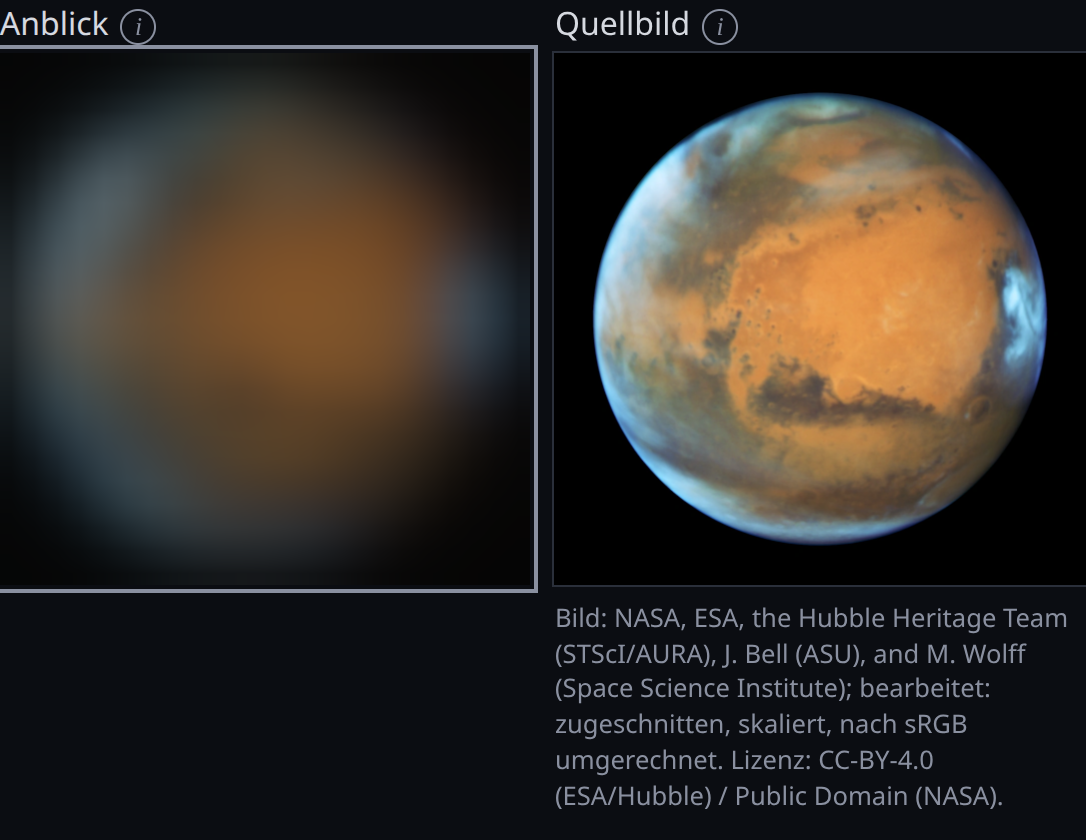
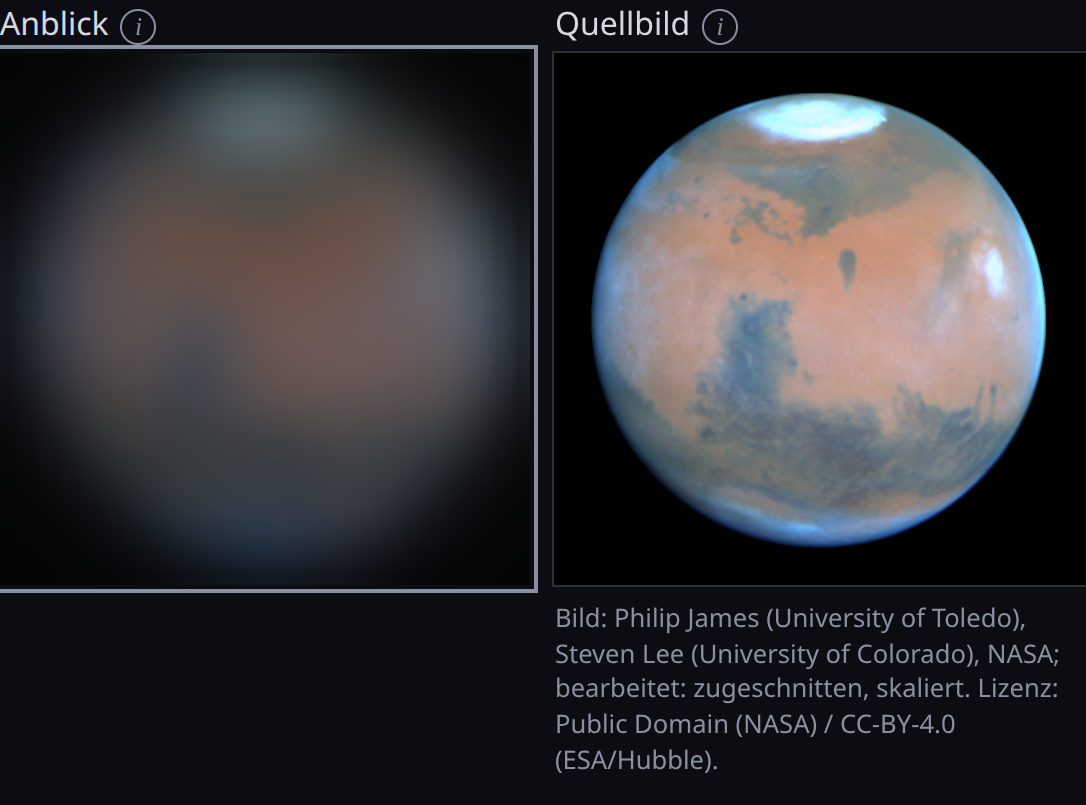
Quellbild Mars 14" und 6" mit Nordpolkappe: Hubble 1995 (Issue #78)
mars_14 und mars_6 nutzen statt Hubble 2016-05-12 (keine abgegrenzte Kappe)
Hubble WFPC2 vom 25.02.1995 (NASA mars-2, ESA opo9516d, pixelgleich):
Aphel-Opposition, Ls etwa 64, grosse Nordkappe, Syrtis Major in der Mitte.
Geometrie aus JPL Horizons, Orientierung am Bild belegt. Quellweiss neu
geeicht (3,31 und 2,75), Syrtis-Verhaeltnis 0,47 statt 0,41, Polkappe in
strukturprofile.py gemessen. Altes Bild, Nachweis und Parameterdatei
entfernt. T5 neu beurteilt: erfuellt.

diff --git a/src/daten/bildnachweise.test.ts b/src/daten/bildnachweise.test.ts
@@ -122,8 +122,8 @@ describe("pruefeBildnachweise", () => {
 });
 
 describe("pruefeBildnachweise mit Einzelbildern", () => {
-  /** Index des Einzelbilds Mars 2016 in der Kopie. */
-  const MARS_14 = (bilderJson as { id: string }[]).findIndex((e) => e.id === "mars_hst_20160512");
+  /** Index des Einzelbilds Mars 1995 in der Kopie. */
+  const MARS_14 = (bilderJson as { id: string }[]).findIndex((e) => e.id === "mars_hst_19950225");
 
   it("akzeptiert die Mars-Einzelbilder mit datei_bytes und ohne kacheln", () => {
     const nachweise = pruefeBildnachweise(bilderJson);
@@ -149,7 +149,7 @@ describe("pruefeBildnachweise mit Einzelbildern", () => {
   it("verlangt datei_bytes bei Einzelbildern und eine Datei statt eines Verzeichnisses", () => {
     const roh = kopie();
     delete roh[MARS_14]!["datei_bytes"];
-    expect([fehlerVon(roh).eintrag, fehlerVon(roh).feld]).toEqual(["mars_hst_20160512", "datei_bytes"]);
+    expect([fehlerVon(roh).eintrag, fehlerVon(roh).feld]).toEqual(["mars_hst_19950225", "datei_bytes"]);
     const roh2 = kopie();
     roh2[MARS_14]!["datei"] = "mars/";
     expect(fehlerVon(roh2).feld).toBe("datei");
@@ -163,6 +163,6 @@ describe("pruefeBildnachweise mit Einzelbildern", () => {
     const roh = kopie();
     roh[MARS_14]!["datei_bytes"] = 19_990_000;
     const f = fehlerVon(roh);
-    expect([f.eintrag, f.feld]).toEqual(["mars_hst_20160512", "datei_bytes"]);
+    expect([f.eintrag, f.feld]).toEqual(["mars_hst_19950225", "datei_bytes"]);
   });
 });

diff --git a/src/daten/quelle_einzelbild.test.ts b/src/daten/quelle_einzelbild.test.ts
@@ -26,7 +26,7 @@ const MITTE = { xArcsec: 0, yArcsec: 0 };
 
 /** Nachweis eines Einzelbilds 8x6 px mit 4 px Scheibe, aufgenommen bei 2 Bogensekunden. */
 function nachweisTest(): Bildnachweis {
-  const echt = pruefeBildnachweise(bilderJson).find((n) => n.id === "mars_hst_20160512")!;
+  const echt = pruefeBildnachweise(bilderJson).find((n) => n.id === "mars_hst_19950225")!;
   return { ...echt, pixelBreite: 8, pixelHoehe: 6, objektDurchmesserPx: 4, winkelgroesseArcsec: 2, bogensekundenProPixel: 0.5 };
 }
 
@@ -89,8 +89,8 @@ describe("QuelleEinzelbild mit Mars aus daten/", () => {
       const nachweis = nachweise.find((n) => n.id === objekte.find((o) => o.id === "mars")!.zustaende.find((z) => z.id === id)!.bild)!;
       expect(einzelbildMassstab(nachweis, zustand.durchmesserArcsec)).toBeCloseTo(zustand.quelle.massstabArcsecProPx, 12);
     }
-    // mars_6 und mars_14 teilen das Bild von 2016 mit 900 px Scheibe.
-    expect(objektzustand(objekte, nachweise, "mars_6")!.quelle.massstabArcsecProPx).toBeCloseTo(6 / 900, 12);
-    expect(objektzustand(objekte, nachweise, "mars_14")!.quelle.breitePx).toBe(960);
+    // mars_6 und mars_14 teilen das Bild von 1995 mit 620 px Scheibe.
+    expect(objektzustand(objekte, nachweise, "mars_6")!.quelle.massstabArcsecProPx).toBeCloseTo(6 / 620, 12);
+    expect(objektzustand(objekte, nachweise, "mars_14")!.quelle.breitePx).toBe(664);
   });
 });

diff --git a/src/physik/testdaten.ts b/src/physik/testdaten.ts
@@ -86,14 +86,14 @@ export const SATURN_20: Objektzustand = {
 
 /**
  * Mars 14'' und 6'' ohne Trabanten, Objektwerte aus daten/objekte.json (mars_14, mars_6). Quelle
- * wie in der Anwendung: Bild mars_hst_20160512 (960 px, Scheibe 900 px) auf die Winkelgroesse
- * des Zustands skaliert, also 14/900 bzw. 6/900 ''/px.
+ * wie in der Anwendung: Bild mars_hst_19950225 (664 px, Scheibe 620 px) auf die Winkelgroesse
+ * des Zustands skaliert, also 14/620 bzw. 6/620 ''/px.
  */
 export const MARS_14: Objektzustand = {
   kennung: "mars_14",
   durchmesserArcsec: 14,
   magnitude: -1.4,
-  quelle: { breitePx: 960, hoehePx: 960, massstabArcsecProPx: 14 / 900, weissMagProArcsec2: 2.54 },
+  quelle: { breitePx: 664, hoehePx: 664, massstabArcsecProPx: 14 / 620, weissMagProArcsec2: 2.75 },
   trabanten: []
 };
 
@@ -101,6 +101,6 @@ export const MARS_6: Objektzustand = {
   kennung: "mars_6",
   durchmesserArcsec: 6,
   magnitude: 1.0,
-  quelle: { breitePx: 960, hoehePx: 960, massstabArcsecProPx: 6 / 900, weissMagProArcsec2: 3.1 },
+  quelle: { breitePx: 664, hoehePx: 664, massstabArcsecProPx: 6 / 620, weissMagProArcsec2: 3.31 },
   trabanten: []
 };

diff --git a/src/physik/validierung.test.ts b/src/physik/validierung.test.ts
@@ -40,10 +40,10 @@ const SATURN_ANSE: Profilstufe[] = [
   stufe(21.0, 22.69, 0.54)
 ];
 
-/** Mars-Scheibe mit Radius r und Syrtis Major der Breite b in der Mitte, dunkel/hell 0,41 (Quellbild), Himmel 0. */
+/** Mars-Scheibe mit Radius r und Syrtis Major der Breite b in der Mitte, dunkel/hell 0,47 (Quellbild seit #78), Himmel 0. */
 const mars = (radiusArcsec: number, syrtisArcsec: number): Profilstufe[] => [
   stufe(-radiusArcsec, -syrtisArcsec / 2, 1),
-  stufe(-syrtisArcsec / 2, syrtisArcsec / 2, 0.41),
+  stufe(-syrtisArcsec / 2, syrtisArcsec / 2, 0.47),
   stufe(syrtisArcsec / 2, radiusArcsec, 1)
 ];
 

diff --git a/src/daten/objekte.test.ts b/src/daten/objekte.test.ts
@@ -48,8 +48,8 @@ describe("pruefeObjekte", () => {
     const mars = pruefeObjekte(objekteJson).find((o) => o.id === "mars");
     expect(mars?.typ).toBe("planet");
     expect(mars?.zustaende.map((z) => [z.id, z.winkelgroesseArcsec, z.weissMagProArcsec2])).toEqual([
-      ["mars_6", 6, 3.1],
-      ["mars_14", 14, 2.54],
+      ["mars_6", 6, 3.31],
+      ["mars_14", 14, 2.75],
       ["mars_25", 25, 1.68]
     ]);
     expect(mars?.zustaende[0]?.hinweisHilfe).toContain("gibbos");

diff --git a/tools/strukturprofile.py b/tools/strukturprofile.py
@@ -22,7 +22,11 @@ Y = 0,2126 R + 0,7152 G + 0,0722 B, wie tools/quellweiss_eichen.py), und gibt au
       ohne Flanken.
     - Mars (mars_14): Perzentile 10 und 70 der Leuchtdichte im inneren
       Scheibenbereich (Radius unter 0,7) als dunkle und helle Gebiete, und ihr
-      Verhaeltnis.
+      Verhaeltnis. Dazu die Nordpolkappe (Issue #78): in der hellsten Zeile
+      der Nordkappe (oberhalb 0,6 Radien) die Breite an der Halbwertskante
+      zwischen Kappenkern (Perzentil 95 der Zeile) und hellen Gebieten
+      (Perzentil 70 innen), in Bogensekunden und Scheibendurchmessern, und
+      der Kern relativ zu den hellen Gebieten.
     - Jupiter (jup_47, Issue #79): Streifen am Zentralmeridian (96 px breit),
       Kern des NEB gegen die NTrZ, Fenster in Bogensekunden vom Aequator im
       Bild (Massstab des Nachweises), gewaehlt nach dem Profil des Bilds von
@@ -165,6 +169,17 @@ def mars() -> None:
     innen = y[np.hypot(xx - breite / 2, yy - hoehe / 2) < 0.7 * radius_px]
     p10, p70 = np.percentile(innen, 10), np.percentile(innen, 70)
     print(f"Mars {n['datei']}: Perzentil 10 {p10:.3f}, 70 {p70:.3f}, Verhaeltnis dunkel/hell {p10 / p70:.3f}")
+    # Nordpolkappe: hellste Zeile oberhalb 0,6 Radien, nur innerhalb der Scheibe
+    in_scheibe = np.hypot(xx - breite / 2, yy - hoehe / 2) < 0.98 * radius_px
+    oben = np.where(in_scheibe & (yy < hoehe / 2 - 0.6 * radius_px), y, 0.0)
+    zeile = int(np.argmax(oben.mean(axis=1)))
+    profil = oben[zeile - 2 : zeile + 3].mean(axis=0)
+    kern_y = np.percentile(profil[profil > 0], 95)
+    ueber = np.where(profil > (kern_y + p70) / 2)[0]
+    breite_px = ueber.max() - ueber.min() + 1
+    massstab = n["bogensekunden_pro_pixel"]
+    print(f"  Nordpolkappe (Zeile {zeile}, {(hoehe / 2 - zeile) / radius_px:.2f} R ueber der Mitte): Breite {breite_px} px = "
+          f"{breite_px * massstab:.2f}\" = {breite_px / n['objekt_durchmesser_px']:.3f} D, Kern {kern_y:.3f}, relativ zu hell {kern_y / p70:.2f}")
 
 
 

diff --git a/docs/validierung.md b/docs/validierung.md
@@ -26,8 +26,8 @@ URL-Basis aller Faelle: `https://herr-cbert.github.io/astobsim/`, dahinter der S
 | T4b | `?v=1&R(100,1000,5)&z=jup_47&s=3&B` | 3,23'' | 0,061 | [Uebersicht](validierung/T4b-uebersicht.png), [Zoom](validierung/T4b-zoom.png) |
 | T4c | `?v=1&R(300,3000,15)&z=jup_47&s=1&B` | 1,11'' | 0,139 | [Uebersicht](validierung/T4c-uebersicht.png), [Zoom](validierung/T4c-zoom.png) |
 | T4d | `?v=1&R(100,1000,5)&z=jup_47&s=1&B` | 1,57'' | 0,112 | [Uebersicht](validierung/T4d-uebersicht.png), [Zoom](validierung/T4d-zoom.png) |
-| T5a | `?v=1&R(150,1200,6)&z=mars_14&s=1.5&B` | 1,72'' | Syrtis 0,429 | [Uebersicht](validierung/T5a-uebersicht.png), [Zoom](validierung/T5a-zoom.png) |
-| T5b | `?v=1&R(80,960,8)&z=mars_6&s=1.5&B` | 2,15'' | Syrtis 0,060 | [Uebersicht](validierung/T5b-uebersicht.png), [Zoom](validierung/T5b-zoom.png) |
+| T5a | `?v=1&R(150,1200,6)&z=mars_14&s=1.5&B` | 1,72'' | Syrtis 0,384 | [Uebersicht](validierung/T5a-uebersicht.png), [Zoom](validierung/T5a-zoom.png) |
+| T5b | `?v=1&R(80,960,8)&z=mars_6&s=1.5&B` | 2,15'' | Syrtis 0,046 | [Uebersicht](validierung/T5b-uebersicht.png), [Zoom](validierung/T5b-zoom.png) |
 | T6a | `?v=1&g=auge&z=mond_ev&s=2&B` | 63,1'' | Mare 0,398 | [Uebersicht](validierung/T6a-uebersicht.png), [Zoom](validierung/T6a-zoom.png) |
 | T6b | `?v=1&g=auge&z=jup_47&s=2&B` | 63,1'' | - | [Uebersicht](validierung/T6b-uebersicht.png), [Zoom](validierung/T6b-zoom.png) |
 | T6c | `?v=1&g=fernglas-10x50&z=jup_47&s=2&B` | 6,74'' | Baender 0,080 | [Uebersicht](validierung/T6c-uebersicht.png), [Zoom](validierung/T6c-zoom.png) |
@@ -80,6 +80,10 @@ Bild: bei 14'' sind die dunklen Gebiete als schwache Strukturen zu sehen, bei 6'
 
 **Urteil: teilweise** (dunkle Strukturen und Scheibchen erfuellt, Polkappe nicht pruefbar). Abweichung 3 (#78).
 
+Nachtrag #78 (2026-10-28): neues Quellbild Hubble 25.02.1995 (mars_hst_19950225, Aphel-Opposition, Ls etwa 64, grosse Nordkappe 0,28 Scheibendurchmesser, Syrtis Major in der Mitte), Screenshots neu. Bei 14'' ist die Nordkappe als helle Flaeche am Nordrand deutlich (Leuchtdichte im Nord-Sued-Schnitt 0,122 in der Kappe gegen 0,074 suedlich davon, eigenes Maximum), Syrtis Major als dunkler Keil links der Mitte schwach (Delle 0,384). Bei 6'' im 80 mm ein Scheibchen ohne eigenes Maximum der Kappe, aber mit hellerem Nordrand (sRGB 33 gegen 24 und 46 gegen 34 im gleichen Abstand von der Mitte nach Norden und Sueden), also angedeutet; Syrtis nicht (0,046).
+
+**Urteil nach #78: erfuellt** (Polkappe und Syrtis bei 14'' erkennbar, bei 6'' Scheibchen mit angedeuteter Kappe).
+
 ### T6: Mond und Jupiter mit blossem Auge, Jupiter im 10x50
 
 Erwartung: Mond mit Mare als Flecken, keine Krater; Jupiter mit blossem Auge ein Punkt; im 10x50 ein winziges Scheibchen mit zwei bis vier Monden in einer Linie, keine Baender.
@@ -93,14 +97,14 @@ Bild: Mond mit klaren Mare-Flecken, keine Krater (T6a). Jupiter mit blossem Auge
 | Delle | Fall und Struktur | im Bild |
 |---|---|---|
 | 0,549 | T3 Kraterschatten 4 km | erkennbar (aus der Delle, im Bild nicht pruefbar) |
-| 0,429 | T5a Syrtis Major 14'' | erkennbar |
+| 0,384 | T5a Syrtis Major 14'' (seit #78, vorher 0,429) | erkennbar |
 | 0,398 | T6a Mare, blosses Auge | erkennbar |
 | 0,142 | T1 Baender 70 mm | erkennbar |
 | 0,139 | T4c Detail 1,5'', 300 mm, 1'' | erkennbar |
 | 0,112 | T4d Detail 1,5'', 100 mm, 1'' | nicht (Herbert, 2026-10-27: "kaum" zaehlt als nicht) |
 | 0,080 | T6c Baender 10x50 | nicht |
 | 0,066 / 0,061 | T4a / T4b Detail 1,5'' bei 3'' | nicht |
-| 0,060 | T5b Syrtis Major 6'' | nicht |
+| 0,046 | T5b Syrtis Major 6'' (seit #78, vorher 0,060) | nicht |
 | 0,058 | T3 Hadley-Rille | nicht |
 | 0,000 | T2a / T2b Cassini-Teilung | nicht |
 
@@ -114,7 +118,7 @@ Als Issues angelegt am 2026-10-27, Milestone M3 (Herbert, 2026-10-27):
 
 1. **#76, T2: Cassini-Teilung bei 100 mm und Seeing 1,5'' nicht sichtbar.** Das Modell faltet mit dem Langzeit-Seeing (Moffat mit voller FWHM); Beobachter sehen die Teilung in Momenten ruhiger Luft. Zu klaeren, ob die Erwartung fuer Langzeit-Seeing zu optimistisch ist oder ob das Seeing-Modell fuer visuelle Beobachtung zu streng ist. Bezug: #29 (Kann: Umschalter ruhiger Moment), physik.md 2. **Erledigt 2026-10-27:** Erwartung zu optimistisch, Modell bleibt, A-Q2 T2 angepasst. Ein Tilt-Abzug haette T4d und T5b ueber die Schwelle gehoben (physik.md 15).
 2. **#77, T3: Mond-Zoom zu grob fuer die Aufloesungsgrenze.** Der Zoom zeigt beim Mond das halbe Gesichtsfeld (`ZOOM_ANTEIL_GESICHTSFELD_MAX`); bei 80 mm und 100-fach sind das etwa 1,7'' je Anzeigepixel, die Optik loest etwa 1'' je Arbeitspixel auf. Die Grenze von A-Q2 (Krater ab 4 km) ist so nicht zu sehen. Vorschlag: zweite Zoomstufe oder Zoom bis zum Arbeitsmassstab.
-3. **#78, T5: Mars-Quellbild ohne Polkappe.** Hubble 2016-05-12 (mars_14 und mars_6) zeigt keine abgegrenzte Kappe; "Polkappe erkennbar" ist damit nicht pruefbar. Vorschlag: anderes Bild fuer die Aphel-Opposition (Nordfruehling, grosse Nordkappe, objekte.md 4.4).
+3. **#78, T5: Mars-Quellbild ohne Polkappe.** Hubble 2016-05-12 (mars_14 und mars_6) zeigt keine abgegrenzte Kappe; "Polkappe erkennbar" ist damit nicht pruefbar. Vorschlag: anderes Bild fuer die Aphel-Opposition (Nordfruehling, grosse Nordkappe, objekte.md 4.4). **Erledigt 2026-10-28:** Hubble WFPC2 vom 25.02.1995 (Ls etwa 64, 13,43'', Syrtis Major in der Mitte) fuer mars_14 und mars_6, Quellweiss neu geeicht (objekte.md 5.3), Syrtis-Verhaeltnis 0,47 statt 0,41 (objekte.md 4.6); T5 erfuellt.
 4. **#79, T1: Quellbild Jupiter kontrastreicher als visuell.** Baender etwa 0,7 statt 0,82 der Zonenhelligkeit (Orton [56]), GRF kraeftig orange; der GRF erscheint im 70 mm deutlich statt angedeutet. Vorschlag: Kontrast und Farbsaettigung des Quellbilds in `tools/` an die Photometrie angleichen, oder die Erwartung begruenden. Aus #76 dazu: Saturn-A-Ring im Quellbild 0,50 (innen) und 0,21 (aussen) des aeusseren B-Rings, vermutlich ebenfalls zu dunkel; selbst im ruhigen Moment zeigt er die Cassini-Teilung kaum (physik.md 15.4). **Erledigt 2026-10-28:** Jupiter mit Exponent 0,427 an Orton angeglichen (NEB/NTrZ 0,82), Saturn mit einer Tonkurve an Salo und French 2010 (eine Potenzkurve passt dort nicht); Quellweiss neu geeicht, T1 erfuellt, T2 weiter erfuellt.
 
 ## 5. Pruefpunkte aus Welle 4a
@@ -134,6 +138,7 @@ Als Issues angelegt am 2026-10-27, Milestone M3 (Herbert, 2026-10-27):
 | Herbert | 2026-10-27 | Urteile wie oben |
 | Herbert | 2026-10-27 | #76: T2-Erwartung an das Langzeitmittel angepasst, T2 erfuellt |
 | Claude | 2026-10-28 | #79: Quellbilder Jupiter und Saturn angeglichen, T1 erfuellt, T2 weiter erfuellt, T4 und T6 unveraendert im Urteil |
+| Claude | 2026-10-28 | #78: Quellbild Mars 1995 mit Nordkappe, T5 erfuellt |
 
 ## 7. Sicherheit (Issue #22)
 

diff --git a/data/roh/LIESMICH.md b/data/roh/LIESMICH.md
@@ -12,9 +12,12 @@ Nur diese Datei liegt im Repo (`.gitignore`: `data/roh/*`, `!data/roh/LIESMICH.m
[2 lines of base64/hex data omitted]
   Scheibe gemessen (Halbwertskante): Mitte Pixel 398,8/400,0, Aequatordurchmesser 696,3 px (25,12", 0,0361"/px). Verarbeitet durch `tools/bild_aufbereiten.py` mit `tools/parameter/mars_hst_20030826.json`.
[3 lines of base64/hex data omitted]
   Scheibe gemessen (Halbwertskante): Mitte Pixel 998,0/979,25, Aequatordurchmesser 1374,4 px (17,51", 0,0127"/px). Verarbeitet durch `tools/bild_aufbereiten.py` mit `tools/parameter/mars_hst_20160512.json`.
[2 lines of base64/hex data omitted]
+  Scheibe gemessen (Halbwertskante): Mitte Pixel 403,28/395,57, Aequatordurchmesser 618,5 px (13,43", 0,0217"/px). Verarbeitet durch `tools/bild_aufbereiten.py` mit `tools/parameter/mars_hst_19950225.json`.
[2 lines of base64/hex data omitted]
   Die Pressefassung ist gedreht (Baender 41,7 Grad gegen den Uhrzeigersinn ueber der Waagerechten, bestimmt ueber Profil-Korrelation der Baender); `tools/bild_aufbereiten.py` dreht um 41,7 Grad im Uhrzeigersinn. Im gedrehten Bild gemessen (Halbwertskante): Mitte Pixel 2121,8/2175,7, Aequatordurchmesser 2210,4 px (45,65", 0,0207"/px). Parameter: `tools/parameter/jupiter_hst_20190627.json`.

diff --git a/docs/recherche/bilder.md b/docs/recherche/bilder.md
@@ -66,7 +66,9 @@ Ein Orbiter in polarer Bahn fotografiert jeden Streifen bei etwa gleicher Ortsze
 
 ## 3. Mars 6", 14", 25"
 
-Ephemeride fuer die Aufnahmedaten (JPL Horizons, geozentrisch) [Q22]: 2003-08-26: 25,12", subterrestrische Breite -19,0 Grad (Suedpolkappe zugewandt). 2016-05-12: 17,51", +8,6 Grad.
+Ephemeride fuer die Aufnahmedaten (JPL Horizons, geozentrisch) [Q22]: 2003-08-26: 25,12", subterrestrische Breite -19,0 Grad (Suedpolkappe zugewandt). 2016-05-12: 17,51", +8,6 Grad. 1995-02-25 (Nachtrag #78): 13,46" bis 13,40" ueber den Tag, +17,6 Grad, Positionswinkel der Nordpolachse 2,6 Grad, Phasenwinkel 11,3 Grad.
+
+Nachtrag 2026-10-28 (Issue #78): mars_14 und mars_6 nutzen seit #78 Hubble WFPC2 vom 25.02.1995 ("Mars at Opposition 1995 (Syrtis Major Region)", NASA https://science.nasa.gov/asset/hubble/mars-2/, ESA opo9516d, pixelgleich, 800 x 800 px, Scheibe 618 px, etwa 295 px native). Grund: heic1609a (2016, Ls etwa 151) zeigt keine abgegrenzte Nordkappe, T5 verlangt eine; 1995 liegt bei Ls etwa 64 (Aphel-Opposition, Nordfruehling) mit grosser Nordkappe und Syrtis Major in der Mitte. Credit "Philip James (University of Toledo), Steven Lee (University of Colorado), NASA" (ESA: "... NASA / ESA"). Verworfen bei der Suche: 1999 PIA01592 (Sommer-Restkappe, schaerfer), 1997 opo9715c und opo9709b (Montagen mit Text, JPEG), 2024 heic2505b (Kappe unter Polhaube, UV-Anteil), 2007 und 2001 (Polhaube bzw. Staubsturm).
 
 | Kandidat | Datum, Instrument | Groesse, Aufloesung | Sichtbar | Lizenz, Credit | Bewertung |
 |---|---|---|---|---|---|
@@ -312,7 +314,7 @@ Was ein eigenes Rendering fuer den Mond braeuchte (nur falls A-X9 fuer den Mond 
 |---|---|---|---|---|---|
 | Mond, kurz nach erstem Viertel | **Keine Empfehlung ohne Entscheidung von Herbert.** Option A: Commons-Mosaik 2026 (echtes Foto, CC BY-SA 4.0). Option B: NASA SVS 5587, Einzelframe fuer den Zeitpunkt etwa 1 Tag nach dem ersten Viertel (Rendering, gemeinfrei). Option C: CC0-Bild Niittee 2024 als Zwischenloesung. | A: https://commons.wikimedia.org/wiki/File:20260423_-_First_Quarter_Moon_Mosaic.png ; B: https://svs.gsfc.nasa.gov/5587 ; C: https://commons.wikimedia.org/wiki/File:Moon_in_T%C3%B5rva.png | A: CC BY-SA 4.0; B: Public Domain; C: CC0 | A: 13 454 px nominal, echte Aufloesung unbekannt; B: etwa 3000 px (unter 4000); C: etwa 3000 px Scheibe | A: hoch (Urheber kontaktieren, Qualitaet pruefen, drehen, Kacheln); B: mittel (Frame waehlen, Kacheln), aber A-X9-Konflikt; C: gering |
 | Mars 25" | Hubble WFPC2, 26.08.2003 | https://science.nasa.gov/asset/hubble/hubbles-close-encounter-with-mars-august-26-2003 (ESA-Kopie: https://esahubble.org/images/opo0322a/) | Public Domain (NASA) bzw. CC BY 4.0 (ESA/Hubble), zu klaeren | 800 x 800 px Datei, etwa 550 px native, 27 km | gering: Hintergrund schwaerzen, Norden pruefen |
-| Mars 14" | Hubble WFC3 heic1609a, 12.05.2016 (17,5") | https://esahubble.org/images/heic1609a/ | wie oben | 2000 x 2000 px Datei, etwa 440 px native, 30 km | gering; fuer T5 alternativ PIA01592 (Syrtis Major zentral) oder das 2003-Bild verkleinert |
+| Mars 14" | Hubble WFC3 heic1609a, 12.05.2016 (17,5"); seit #78 Hubble WFPC2 25.02.1995 (Abschnitt 3, Nachtrag) | https://esahubble.org/images/heic1609a/ ; seit #78 https://science.nasa.gov/asset/hubble/mars-2/ | wie oben | 2000 x 2000 px Datei, etwa 440 px native, 30 km; 1995: 800 x 800 px, etwa 295 px native | gering; fuer T5 alternativ PIA01592 (Syrtis Major zentral) oder das 2003-Bild verkleinert |
 | Mars 6" | dasselbe Bild wie 14", in der Anwendung auf 24 px skaliert | wie oben | wie oben | weit ueber Messlatte | keiner |
 | Jupiter 47" | Hubble WFC3 heic1914a, 27.06.2019 (45,7") | https://esahubble.org/images/heic1914a/ | wie oben | 3050 x 3050 px, etwa 1140 px native, 240 km | gering; Alternative ohne CC-Frage: Cassini PIA04866 (gemeinfrei, 60 km) |
 | Jupiter 35" | dasselbe Bild, skaliert | wie oben | wie oben | - | keiner |

diff --git a/docs/recherche/objekte.md b/docs/recherche/objekte.md
@@ -269,10 +269,10 @@ Die Tabellen-Tests (`src/physik/validierung.test.ts`) falten je Testfall ein Stu
 | T3 | Kraterschatten 4 km = 2,15'' | Schatten 0 in 1 | 4.3 (Schattenkontrast nahe 1) |
 | T3 | Hadley-Rille 0,64'' | 0,7 in 1 | Annahme (4.3: "Kontrast viel geringer", nur ein Schattenrand); das Quellbild loest die Rille mit 0,64''/px nicht auf |
 | T4 | Detail 1,5'' auf Jupiter (Festons, Ovale) | 0,82 in 1 | Annahme: Groesse aus dem Quellbild geschaetzt, Kontrast wie die Baender |
-| T5 | Mars-Scheibe 14'' bzw. 6'' mit Syrtis Major 2,1'' bzw. 0,9'' in der Mitte | Scheibe 1, Syrtis 0,41, Himmel 0 | Quellbild mars_14 (Perzentil 10 gegen 70 im inneren Scheibenbereich: 0,141/0,341); Literatur 4.4: etwa 0,45 |
+| T5 | Mars-Scheibe 14'' bzw. 6'' mit Syrtis Major 2,1'' bzw. 0,9'' in der Mitte | Scheibe 1, Syrtis 0,47, Himmel 0 | Quellbild mars_14 seit #78 (Hubble 1995; Perzentil 10 gegen 70 im inneren Scheibenbereich: 0,172/0,366; bis #78 Hubble 2016: 0,141/0,341 = 0,41); Literatur 4.4: etwa 0,45 |
 | T6a | Mare 5' = 300'' | 0,6 in 1 | Annahme aus den Albedos in 2.3 (Mare 0,07 bis 0,10 gegen Hochland 0,11 bis 0,18) |
 
-Die Polkappe (T5) hat kein Profil: das Quellbild (Hubble 2016-05-12) zeigt keine abgegrenzte Kappe, siehe `docs/validierung.md`.
+Die Polkappe (T5) hat kein Profil im Tabellen-Test: profilDelle misst Dellen, die Kappe ist eine helle Struktur am Rand, und die Schwelle ist nur an Dellen geeicht; sie wird am Bild beurteilt (`docs/validierung.md` T5). Gemessen mit `tools/strukturprofile.py` seit #78 (Hubble 1995): Breite an der Halbwertskante 0,284 Scheibendurchmesser (3,8'' bei 13,43'', also 4,0'' bei 14''), knapp unter der Schaetzung 4,3'' bis 6,2'' aus 4.4; Kern 2,5-fach so hell wie die hellen Gebiete. Bis #78 (Hubble 2016-05-12) zeigte das Quellbild keine abgegrenzte Kappe.
 
 ## 5. Magnituden und Flaechenhelligkeiten
 
@@ -341,6 +341,8 @@ Nachtrag 2026-10-27 (Issue #71): Die Werte dieser Tabelle sind mittlere Flaechen
 | sat_20 | saturn_hst_20210912 | 0,033333 | 150,4 | -0,1 | 6,6 | 5,34 | -1,26 |
 
 Nachtrag Issue #79 (2026-10-28): Das Jupiterbild ist seit #79 im Kontrast an Orton angeglichen (jeder Kanal in linearem Licht hoch 0,427, 4.6), dadurch heller. Neu geeicht: jup_35 Fluss 568,8, Quellweiss 4,89; jup_47 Fluss 1025,7, Quellweiss 4,83 (je +0,54 mag gegen die Tabelle). Das Saturnbild ist mit einer Tonkurve an Salo und French 2010 angeglichen (4.2, 4.6): sat_16 Fluss 153,0, Quellweiss 6,06; sat_20 Fluss 239,0, Quellweiss 5,85 (je +0,50 mag). Probe mit `tools/quellweiss_eichen.py` auf 0,005 mag.
+
+Nachtrag Issue #78 (2026-10-28): mars_6 und mars_14 nutzen statt mars_hst_20160512 das Bild mars_hst_19950225 (Hubble 25.02.1995, 620 px Scheibe, mit grosser Nordpolkappe). Neu geeicht: mars_6 Massstab 0,009677, Fluss 8,37, Quellweiss 3,31; mars_14 Massstab 0,022581, Fluss 45,57, Quellweiss 2,75 (je +0,21 mag gegen die Tabelle: das Bild ist im Mittel heller, Fluss je Scheibenflaeche 1,21-fach). Probe auf 0,005 mag.
 
 Lesart: Das Scheibenmittel im Quellbild ist $10^{-0{,}4\,(S - \mu_\mathrm{weiss})}$ mit $S$ aus 5.2: Mars 25" etwa 0,14, Mars 14" 0,24, Jupiter 47" 0,39. Die Planetenbilder sind also deutlich dunkler als Weiss, Mars 2003 am staerksten. Bei Mars, Jupiter und Saturn wird Quellweiss um 1,0 bis 2,1 mag heller, die Planetenflaeche im Arbeitsraster entsprechend heller; beim Mond wird er 0,56 mag dunkler.
 
